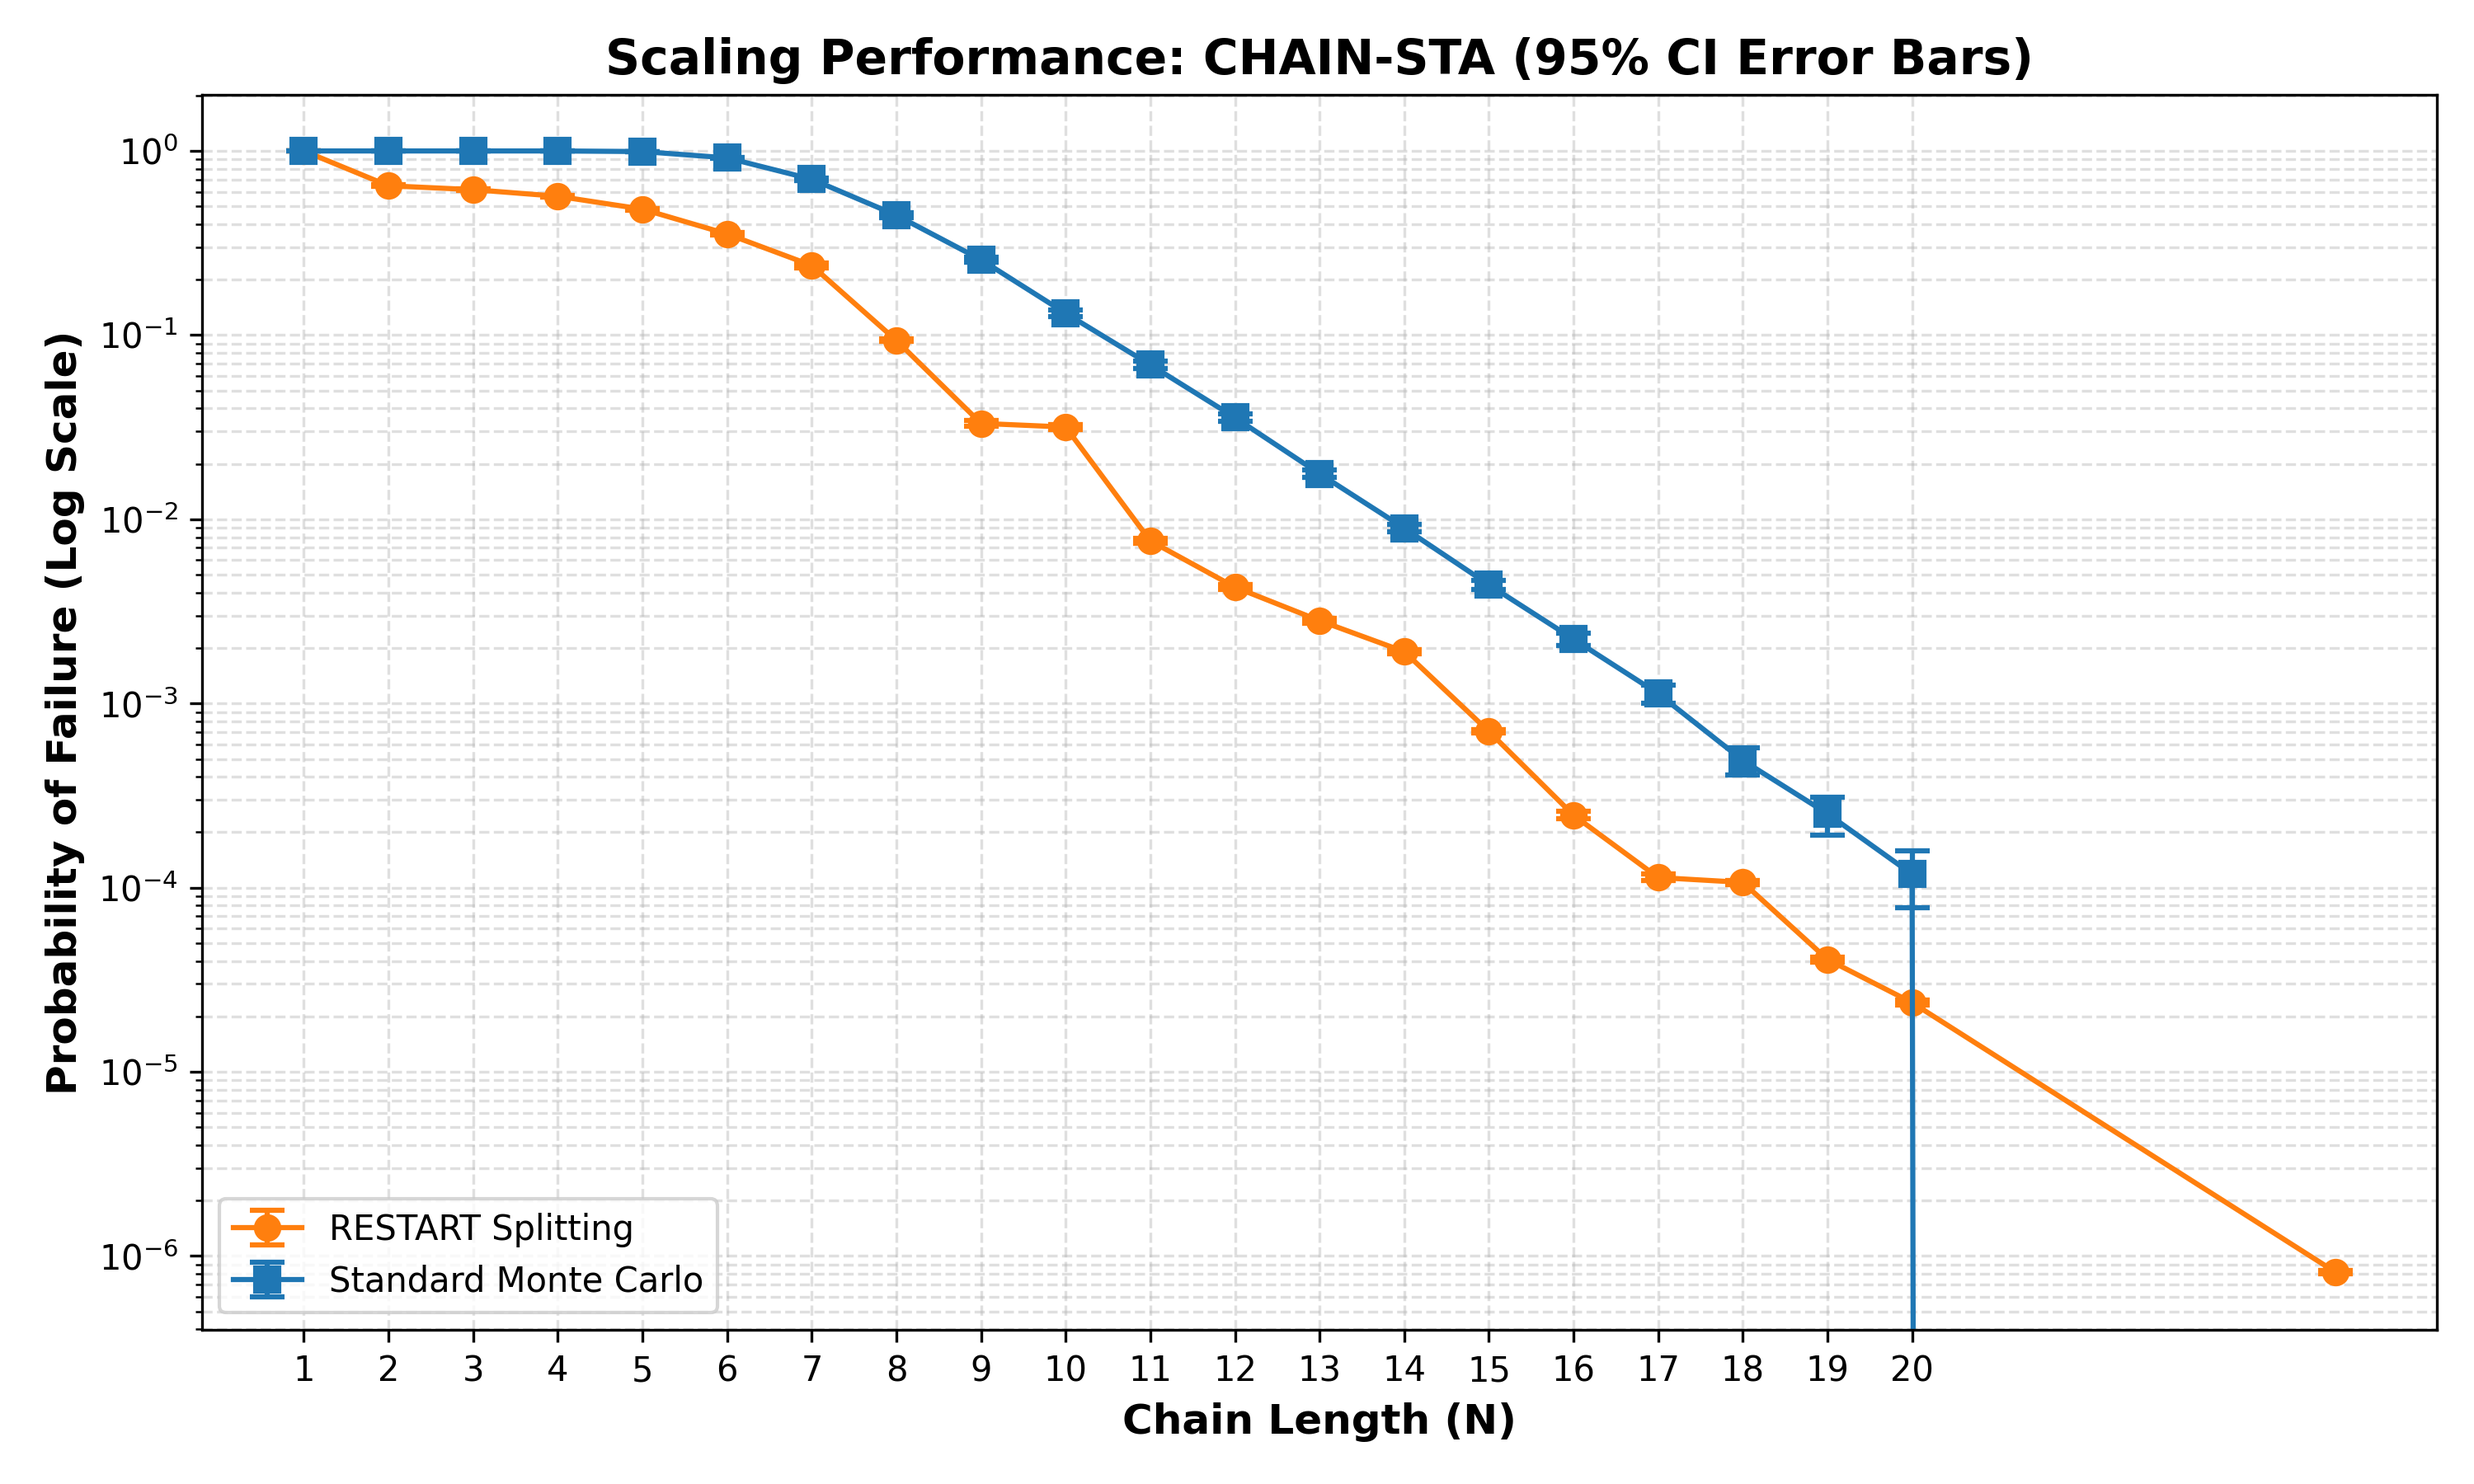
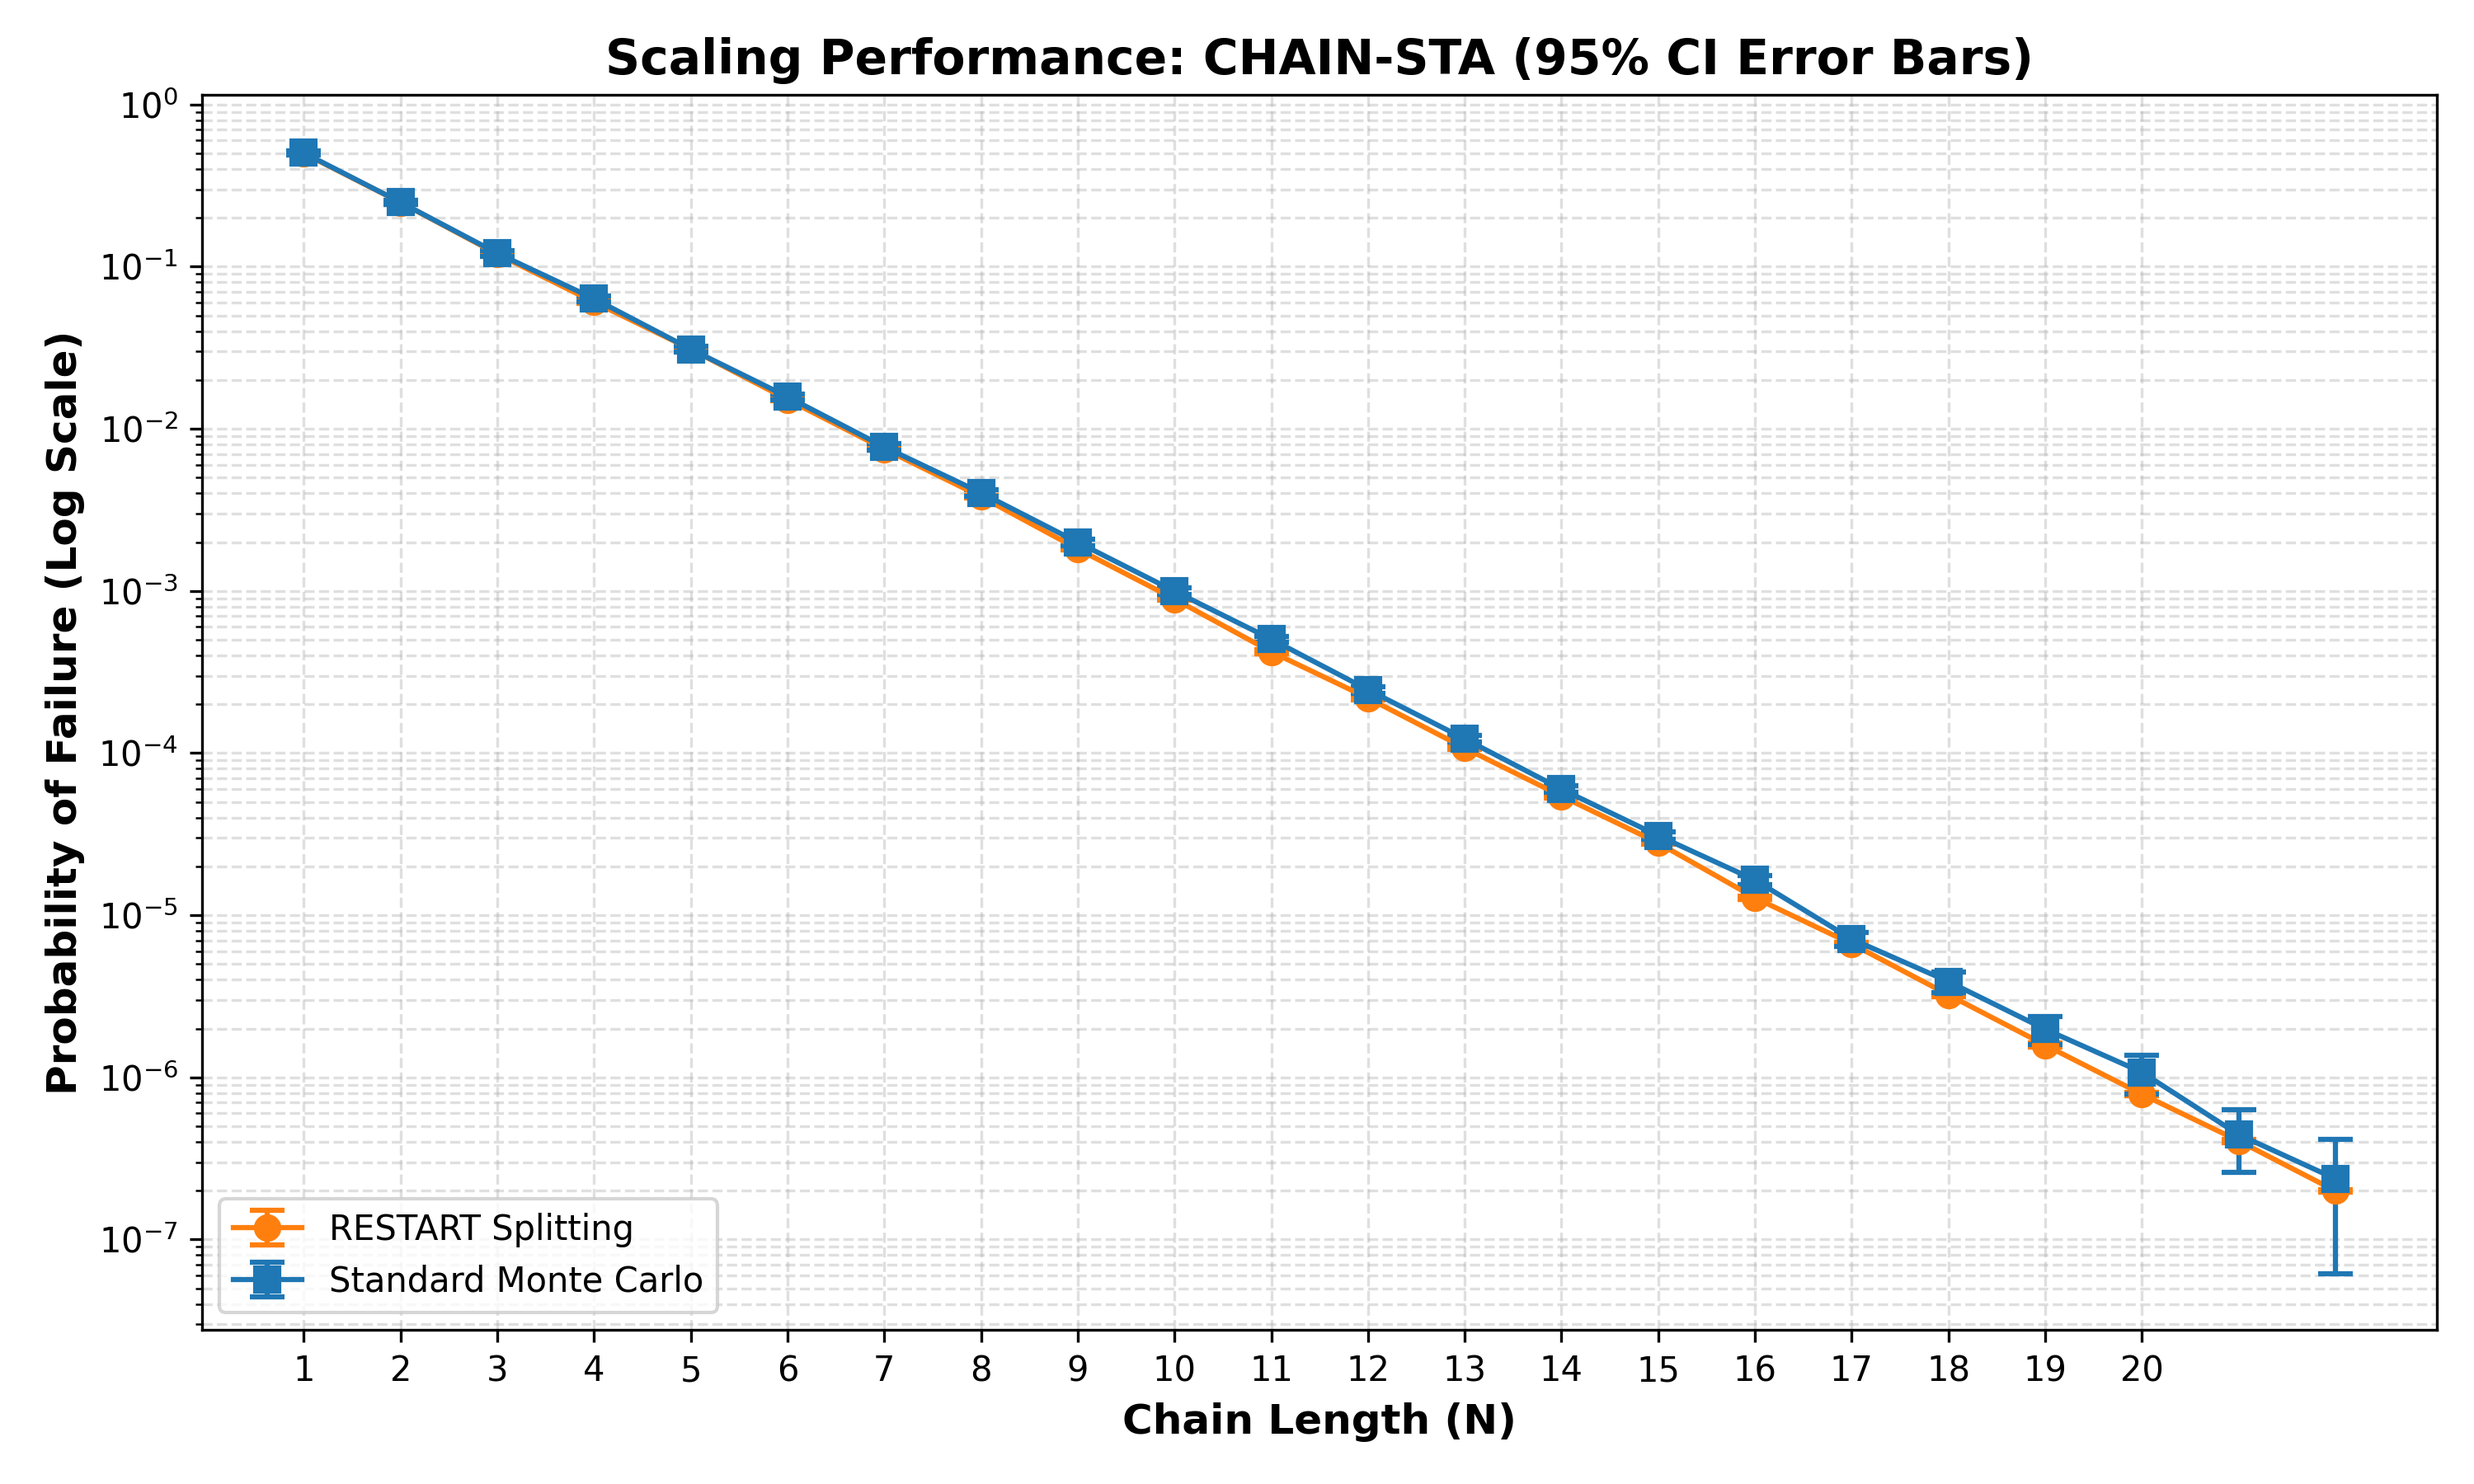
plots

diff --git a/plot_scaling_long.py b/plot_scaling_long.py
@@ -5,7 +5,7 @@ import numpy as np
 import matplotlib.pyplot as plt
 
 # 1. Configuration
-RESULTS_DIR = "./results/the-true-scale-long/results"
+RESULTS_DIR = "./results/scalingLong"
 TARGET_MODEL = "long-sta"  # <--- Dedicated script target
 SWEEP_PARAM = "Y_THRESHOLD" # <--- The variable controlling the scale
 

diff --git a/extract_fixed-time_manufacturing.py b/extract_fixed-time_manufacturing.py
@@ -4,7 +4,7 @@ import json
 import numpy as np
 
 # --- CONFIGURATION ---
-RESULTS_DIR = "./results"
+RESULTS_DIR = "./results/FixedTimeManu/FixedTimeManu"
 GROUND_TRUTH = 0.0  # <--- Update this with your true phi for the manufacturing model
 
 data = {

diff --git a/extract_fixed-runs_manufacturing.py b/extract_fixed-runs_manufacturing.py
@@ -4,7 +4,7 @@ import json
 import numpy as np
 
 # --- CONFIGURATION ---
-RESULTS_DIR = "./results"
+RESULTS_DIR = "./results/FixedRunManu"
 GROUND_TRUTH = 0.0  # <--- Update this when your long CMC run finishes for Manufacturing
 
 data = {

diff --git a/extract_fixed-runs_chain.py b/extract_fixed-runs_chain.py
@@ -4,7 +4,7 @@ import json
 import numpy as np
 
 # --- CONFIGURATION ---
-RESULTS_DIR = "./results"
+RESULTS_DIR = "./results/FixedRunChain/FixedRunChain"
 GROUND_TRUTH = 9.0e-7  # <--- From your earlier chain-sta-n25 CMC run
 
 data = {

diff --git a/extract_fixed-runs_long.py b/extract_fixed-runs_long.py
@@ -4,7 +4,7 @@ import json
 import numpy as np
 
 # --- CONFIGURATION ---
-RESULTS_DIR = "./results"
+RESULTS_DIR = "./results/fixedRunLong"
 GROUND_TRUTH = 0.0  # <--- Update this when your long CMC run finishes for Long-STA
 
 data = {

diff --git a/extract_fixed-time_chain.py b/extract_fixed-time_chain.py
@@ -4,7 +4,7 @@ import json
 import numpy as np
 
 # --- CONFIGURATION ---
-RESULTS_DIR = "./results"
+RESULTS_DIR = "./results/FixedTimeChain/FixedTimeChain"
 GROUND_TRUTH = 9.0e-7  # <--- Update this with your true phi
 
 data = {

diff --git a/plot_scaling_chain.py b/plot_scaling_chain.py
@@ -6,7 +6,7 @@ import numpy as np
 import matplotlib.pyplot as plt
 
 # 1. Configuration
-RESULTS_DIR = "./results"
+RESULTS_DIR = "./results/scalingChain"
 TARGET_MODEL = "chain-sta"  # <--- Dedicated script target
 
 data = {
